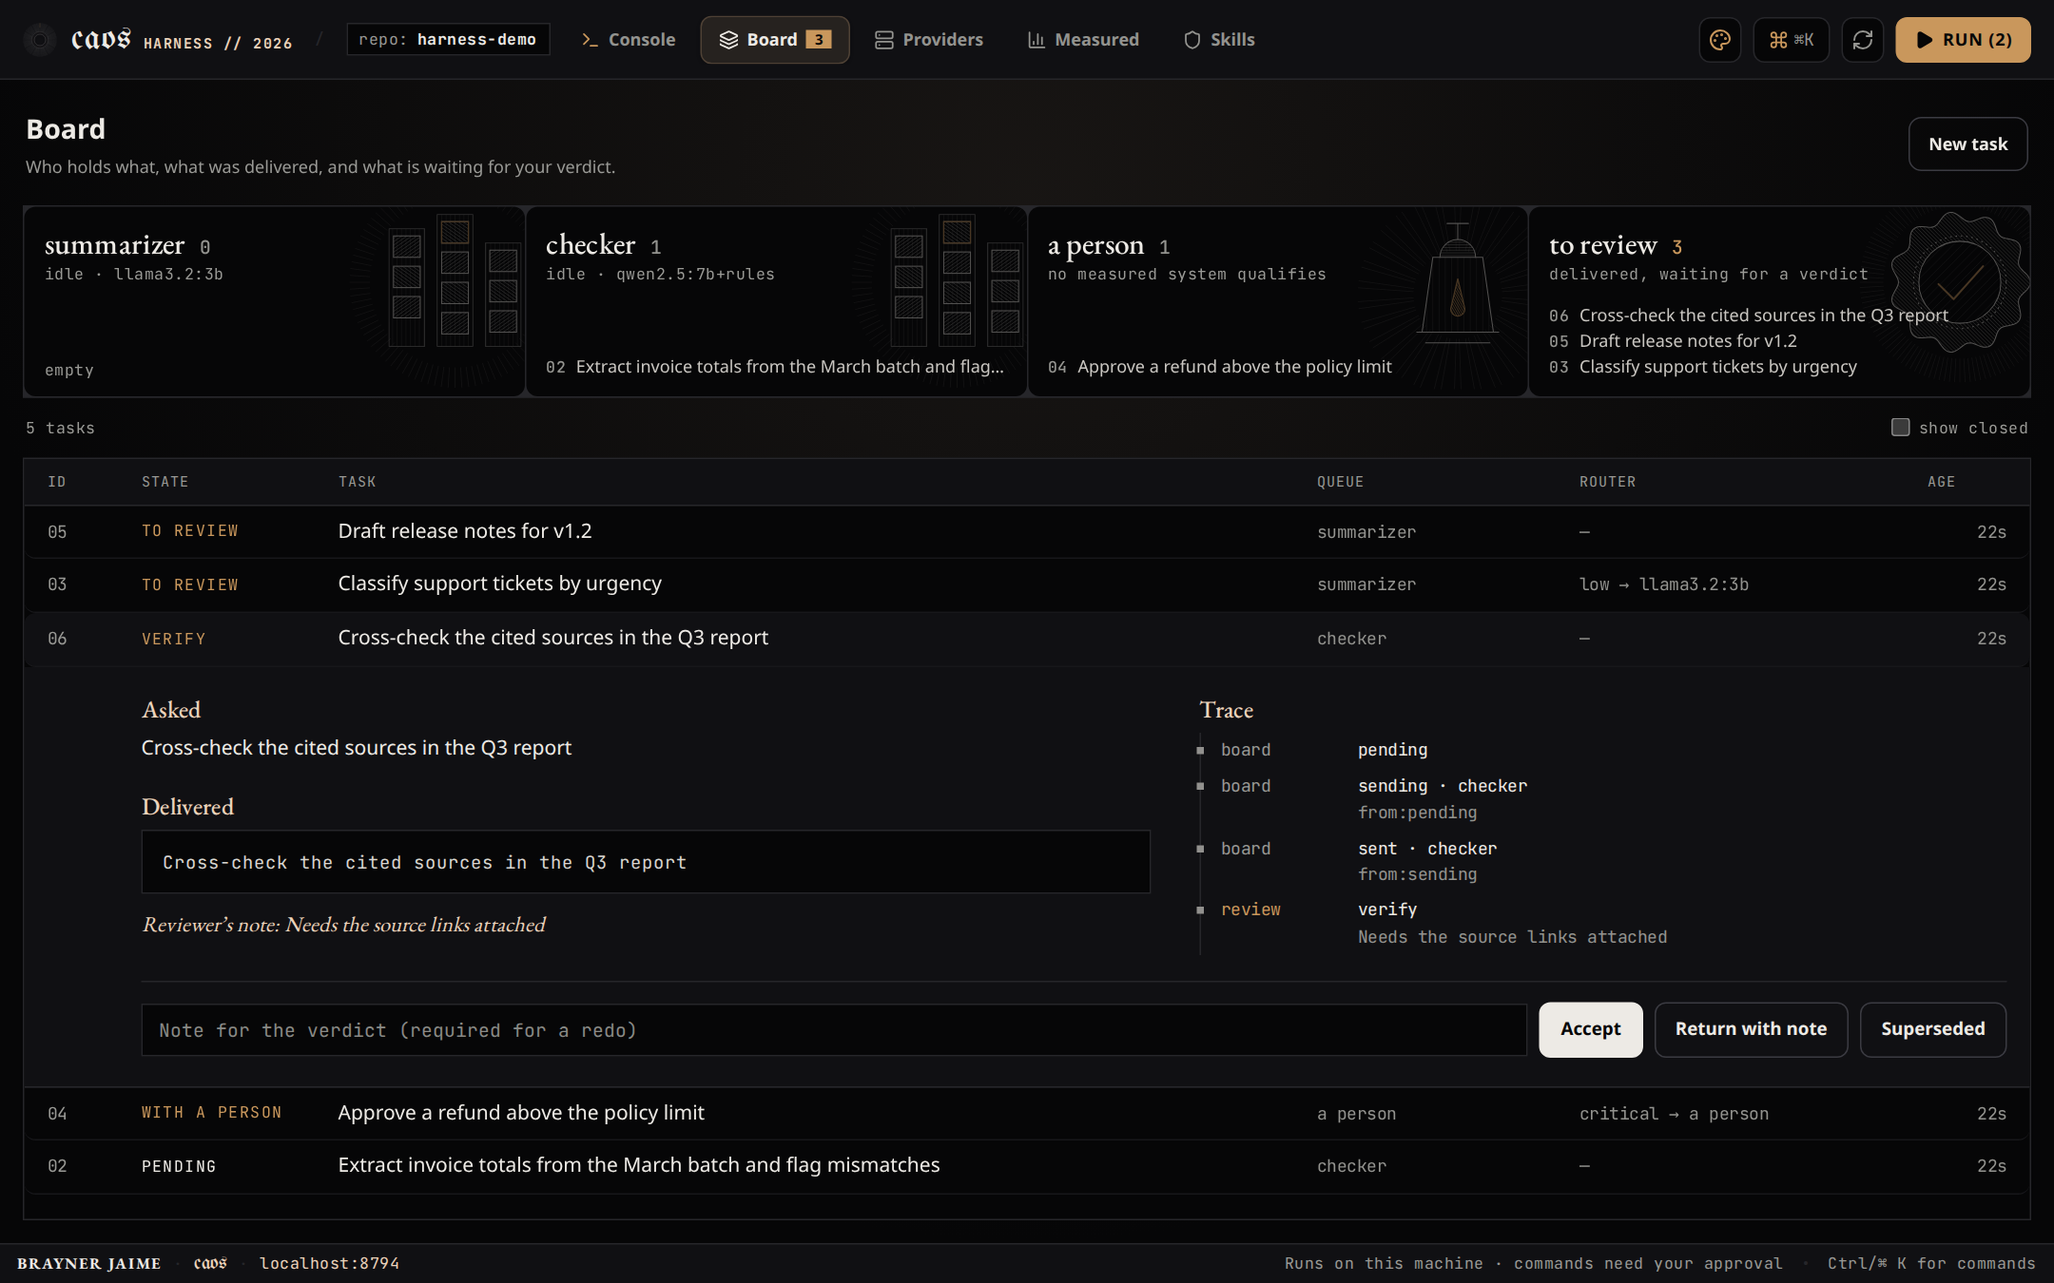
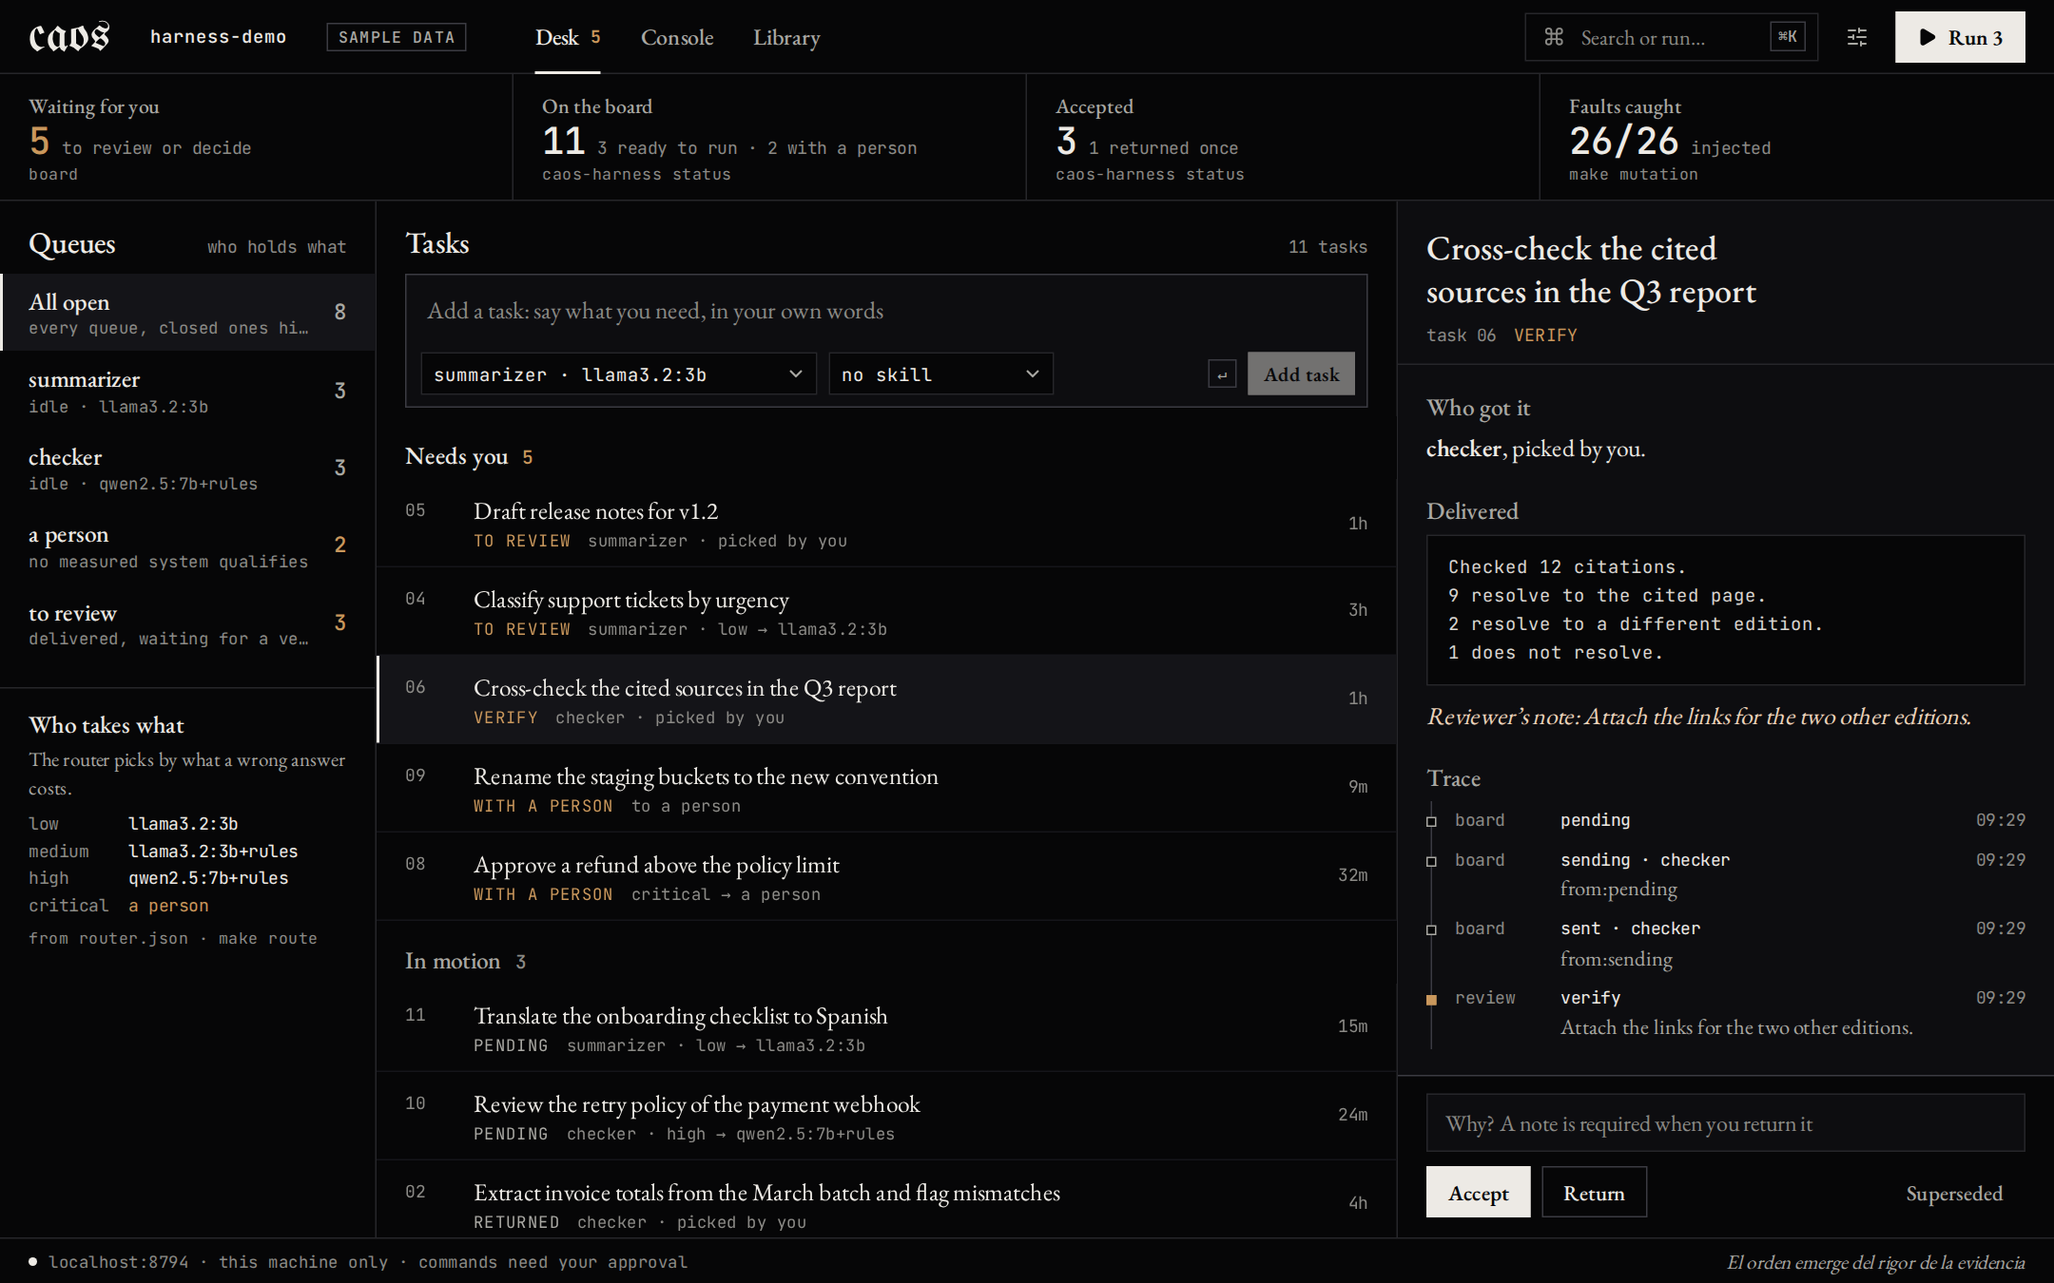
Docs: design review with before and after, new screenshots (desk, compact, first run, console, library, palette, 1024, mobile, CLI), README and quickstart

diff --git a/tools/shot.py b/tools/shot.py
@@ -1,13 +1,46 @@
-"""Regenerate docs/board.png from a running demo server: `python3 tools/shot.py [url] [out]` (needs playwright)."""
+"""Regenerate the dashboard screenshots in docs/ from running servers (needs playwright and chromium).
+
+    python3 tools/seed_demo.py /tmp/harness-demo --force
+    (cd /tmp/harness-demo && python3 -m caos_harness serve --port 8794) &
+    python3 tools/shot.py                          # sample project on :8794  ->  docs/*.png
+
+    python3 tools/shot.py http://localhost:8794 out_dir [http://localhost:8795]
+        the second URL is an empty project (`caos-harness init`), used for the first-run screen
+
+Screenshots are taken with reduced motion on, so nothing is caught mid-animation.
+"""
 import sys
+from pathlib import Path
+
 from playwright.sync_api import sync_playwright
 
-url = sys.argv[1] if len(sys.argv) > 1 else "http://localhost:8794/?tab=board&task=6"
-out = sys.argv[2] if len(sys.argv) > 2 else "docs/board.png"
+demo = (sys.argv[1] if len(sys.argv) > 1 else "http://localhost:8794").rstrip("/")
+out = Path(sys.argv[2] if len(sys.argv) > 2 else Path(__file__).resolve().parent.parent / "docs")
+empty = sys.argv[3].rstrip("/") if len(sys.argv) > 3 else None
+out.mkdir(parents=True, exist_ok=True)
+
+DESKTOP = {"width": 1440, "height": 900}
 with sync_playwright() as p:
     b = p.chromium.launch()
-    pg = b.new_page(viewport={"width": 1440, "height": 900}, device_scale_factor=1.5)
-    pg.goto(url)
-    pg.wait_for_timeout(1500)
-    pg.screenshot(path=out)
+
+    def page(viewport=DESKTOP, scale=1.5):
+        return b.new_context(viewport=viewport, device_scale_factor=scale, reduced_motion="reduce").new_page()
+
+    def shot(pg, name):
+        pg.wait_for_timeout(700)
+        pg.screenshot(path=str(out / name))
+        print("wrote", out / name)
+
+    pg = page(); pg.goto(f"{demo}/?tab=desk&task=6"); shot(pg, "board.png")
+    pg.keyboard.press("Control+k"); pg.keyboard.type("refund"); shot(pg, "palette.png"); pg.close()
+
+    pg = page(); pg.goto(f"{demo}/?tab=desk"); pg.click("button[aria-label=Preferences]"); pg.click("text=Compact"); pg.keyboard.press("Escape")
+    pg.mouse.click(700, 500); shot(pg, "board-compact.png"); pg.close()
+
+    pg = page({"width": 1024, "height": 768}); pg.goto(f"{demo}/?tab=desk&task=6"); shot(pg, "board-1024.png"); pg.close()
+    pg = page(); pg.goto(f"{demo}/?tab=library"); shot(pg, "library.png"); pg.close()
+    pg = page(); pg.goto(f"{demo}/?tab=console"); shot(pg, "console.png"); pg.close()
+    pg = page({"width": 390, "height": 844}, 2); pg.goto(f"{demo}/?tab=desk&task=6"); shot(pg, "board-mobile.png"); pg.close()
+    if empty:
+        pg = page(); pg.goto(f"{empty}/?tab=desk"); shot(pg, "first-run.png"); pg.close()
     b.close()

diff --git a/docs/DESIGN-REVIEW.md b/docs/DESIGN-REVIEW.md
@@ -1,0 +1,63 @@
+# Design review: from five tabs to one desk
+
+A critical review of the dashboard and the CLI as they stood on 2026-11-11, what was changed, and what was deliberately left alone. The "before" images are in [docs/review/before/](review/before/); the "after" images are the ones the README uses.
+
+## What was wrong, in order of impact
+
+1. **It was five tabs of boxes, not a place to work.** Console, Board, Providers, Measured and Skills each opened a full-width panel with a header, an icon and a card grid. The one thing the product is about (a task's whole life: asked, routed, delivered, reviewed) lived inside one of the five. Nothing told you where to look first.
+2. **The first minute was empty and gave no direction.** The console opened on "Your workspace / Start a session to begin" and a button; the board on an empty table. No path from "I just installed this" to "I closed my first task".
+3. **The "Run" button lied.** It counted tasks waiting for a person (`Run (2)` with one runnable task), and the new-task form defaulted to an agent named `qwen` whether or not the project had one.
+4. **The brand rule was broken in four places.** Green on the Measured cards, blue and purple icons in the console, four selectable accent colours (emerald, silver, cyan) and a vignette, all in a brand that has one warm element. Corners were rounded (8 to 14 px) although the brand is square.
+5. **It looked like a template.** Every view repeated box inside box, a lucide icon beside every heading, uppercase tracked labels, the same card. The best thing in the repository, the hairline engravings, was shrunk into 30 px smudges behind queue names, where nobody could read them.
+6. **Strings that were not English or not true.** Spanish leftovers in Providers and the console (`Clave API Pendiente`, `Cuota`, `Operador`, `ahorrado`), a Fallback card marked "not implemented" that had a form, a "+$ saved" label with no data behind it, an "alignment questions" feature the server never sends, and a personal name in every footer.
+7. **Contrast and focus.** The muted text tier was 2.9:1 on black. Focus rings changed style per component. There was no keyboard way to move through tasks, and the palette was the only shortcut.
+8. **Personalisation without function.** Accent colour and background texture changed nothing a person needs; density was the only setting that did.
+
+## What the desk is now
+
+![The desk](board.png)
+
+One working screen. Left, the queues (who holds what) and, under them, the router's table (who takes what, from `router.json`). Middle, a one-line composer and the tasks grouped by what needs you: *Needs you*, *In motion*, *Closed*. Right, the selected task's whole life: who got it and why, what came back, the trace, and the verdict bar. Above, a line of four figures; each names the command that produced it, and none is computed from anything but the board's aggregates, the task list or a report a command wrote.
+
+The page opens on the first thing that needs you, so the trace is never an empty box on a working board; accepting or discarding moves to the next one that needs you.
+
+| | |
+|---|---|
+| ![First run](first-run.png) | ![Console](console.png) |
+| **First run.** A guide that checks itself off by what the board holds (a task exists, something was delivered, something was reviewed), with the terminal equivalent of each step. It hides itself after the first verdict and can be dismissed. | **Console.** The first message starts the session; three real ways in; the limits of Plan mode and shell commands stated before you type. Shell commands are still off per conversation and each one still waits for approval. |
+| ![Library](library.png) | ![Palette](palette.png) |
+| **Library.** Measured systems (with the 95 % interval drawn, because the router decides on its lower bound), the router's tiers, agents, skills and providers in one reference page, one engraving per section. | **⌘K.** Go to a view, run something, or jump to a task by number or words. |
+| ![Compact](board-compact.png) | ![Mobile](board-mobile.png) |
+| **Compact density.** Eleven tasks fit without scrolling on a laptop screen. | **390 px.** Queues become a scrolling strip, the figures a 2×2 grid with their sources, the sample label its own line; the trace opens as a sheet. |
+
+![CLI](cli.png)
+
+The CLI says the same things with the same words. `caos-harness` on its own is now a screen: where you are, what waits for you, the one or two commands worth running next. Colour only on a real terminal; never when piped and never with `NO_COLOR`.
+
+## Decisions
+
+- **Amber means "this needs you", and only that.** The primary button is bone, not amber. This is what makes the single warm element carry information: the count in the nav, the lane heading, the state of a task that waits for a person.
+- **Square corners, hairlines, no cards.** Structure comes from rules and spacing. Nothing sits in a box inside a box.
+- **Type by role.** Garamond for what a person writes and reads (task text, headings, notes); JetBrains Mono for evidence (ids, states, paths, figures, commands); Fraktur for the name only.
+- **Engravings only where they carry meaning, and large.** The empty trace, the first-run guide, "nothing is waiting for you" (the check), an empty queue, each Library section, and the console's policy gate. Removed from queue rows, where they were noise.
+- **Personalisation: two settings, both useful.** *Density* (comfortable or compact) and *Open on* (Desk, Console or Library). Removed: accent colours and the background texture. They live in a small popover from the top bar, stored in the browser only. The old `caos_env_settings` key is ignored.
+- **The Spanish motto stays, once.** "El orden emerge del rigor de la evidencia" is the signature of the brand, and the only Spanish on screen. It is in the footer, never in a control or a sentence the operator has to act on, with its English meaning in the tooltip. It left the console's empty state, where it competed with the instruction.
+- **The personal name left the footer.** The wordmark and the licence carry authorship; a name on every screen of a tool people will evaluate is a signature on the wrong place. It is one line to restore if wanted.
+- **Sample data is labelled.** `tools/seed_demo.py` writes a `.harness/sample` marker; `/api/state` reports `sample: true`; the top bar shows "Sample data" on every screen.
+- **Removed because it did nothing:** the failover form (the server says it is not implemented), "+$ saved" labels, alignment-question chips, the duplicate "add a task" form in the context drawer, the repository selector (the server serves one folder).
+- **Safety is unchanged and visible.** Loopback only, writes need `X-Harness: 1`, no key is ever typed or stored (a provider takes the name of an environment variable), shell commands are off per conversation and each one asks. The footer and the console say so in plain words.
+
+## Accessibility and motion
+
+Text tiers are chosen against `#060607`: bone 16:1, grey 8:1, muted 5.4:1. One focus ring everywhere (`2px` champagne), skip link, `aria-current` on the nav, `aria-pressed` on queues and toggles, `aria-selected` on the selected task, a labelled combobox/listbox for the palette with focus returned on close. Motion is three things: the active nav underline drawing in, rows and trace events rising once, and a hairline that runs under the figures while a run is in progress. `prefers-reduced-motion` removes all of it (the screenshots are taken with it on). The impeccable detector reports nothing on `web/src`.
+
+## What is still open
+
+- Between 981 and 1240 px the desk keeps its three columns with narrower queues; at 980 px and below the trace opens as a sheet over the list (focus moves into it, Esc returns to the row). There is no swipe to dismiss.
+- The Console has no empty-state illustration on narrow screens (the engraving hides below 1180 px).
+- Sessions are listed but cannot be renamed.
+- Nothing here has been used by anyone but the author yet. The first-run guide in particular wants a real first-time reader.
+
+## Independent review
+
+A fresh reviewer (the impeccable finish reviewer, no access to this conversation) read the screenshots and the code. Its material findings, all fixed: the sample label vanished on phones; the figure sources were cut off on phones and the safety line in the footer was clipped mid-word; the trace hid behind a click below 1240 px; a kicker sat above the trace title; the first-run steps dimmed below AA and used a text glyph as an icon; the console engraving touched its headline; and the task list had invalid ARIA (`role="list"` over buttons, `aria-selected` without an option role). Its question about a concept-roll seed key does not apply: the direction was fixed by the project owner, not rolled.

diff --git a/README.md b/README.md
@@ -132,7 +132,7 @@ Raw results: [`reports/`](reports/).
 ```bash
 git clone https://gitlab.com/braynerssj26/caos-agent-harness.git && cd caos-agent-harness
 pip install -e '.[dev]'
-make check        # 133 tests, validation thresholds, regression gate, board demo, router table
+make check        # 137 tests, validation thresholds, regression gate, board demo, router table
 make mutation     # 26/26 injected faults detected
 ```
 
@@ -151,6 +151,21 @@ caos-harness run && caos-harness task list
 caos-harness review 1 redo "no evidence of the run"           # back to its agent, with the note first
 caos-harness serve                                  # the same board in the browser
 ```
+
+### The desk
+
+`caos-harness serve` opens one working screen, not a set of tabs: queues on the left, the tasks in the middle ordered by what needs you first, and the selected task's whole life on the right (what was asked, who got it and why, what came back, the trace) with the verdict controls under it. A line of figures sits above; each one names the command that produced it. **Console** (a local Ollama model) and **Library** (measured systems, the router, agents, skills, providers) are the other two views.
+
+![The desk on a new project: a guide that checks itself off as the board fills](docs/first-run.png)
+
+- **Keys:** `j` / `k` move through tasks, `n` writes a task, `r` runs what is pending, `⌘K` / `Ctrl+K` goes anywhere or finds a task by number or words, `Esc` closes.
+- **Preferences** are two and both are useful: density (comfortable or compact) and the view the page opens on. They are stored in your browser only.
+- **Sample data:** `python3 tools/seed_demo.py /tmp/harness-demo` builds a project of made-up tasks and canned answers; the page labels it "Sample data" so nobody mistakes it for a record.
+- Every figure comes from the board (`Board.stats()`), the task list, or a report a command wrote. There are no estimates.
+
+The CLI speaks in the same words, with colour only on a real terminal (never when piped, and never when `NO_COLOR` is set):
+
+![caos-harness, task list and status in a terminal](docs/cli.png)
 
 Every command is also available as `python -m caos_harness <command>` (`demo`, `route`, `eval`, `regress`, `mutation`, `benchmark`, `agent-eval`, `calibrate`, `skills`, `trace`). Design notes: [docs/ARCHITECTURE.md](docs/ARCHITECTURE.md). Español: [README.es.md](README.es.md).
 

diff --git a/README.es.md b/README.es.md
@@ -56,10 +56,19 @@ El ciclo de vida es el del tablero con el que coordiné mis propios agentes de c
 ## Uso
 ```bash
 pip install -r requirements.txt
-make check        # 133 pruebas, umbrales, compuerta de regresión, demo del tablero y tabla del router
+make check        # 137 pruebas, umbrales, compuerta de regresión, demo del tablero y tabla del router
 make mutation     # 26/26 fallos inyectados detectados
 python -m caos_harness            # todos los comandos
 ```
+### La mesa
+
+`caos-harness serve` abre una sola pantalla de trabajo: las colas a la izquierda, los encargos en el centro (primero lo que te espera) y, a la derecha, la vida completa del encargo elegido: qué se pidió, quién lo recibió y por qué, qué volvió y su traza, con el veredicto debajo. Arriba, una línea de cifras; cada una nombra el comando que la produjo. **Console** (modelo local con Ollama) y **Library** (sistemas medidos, router, agentes, skills, proveedores) son las otras dos vistas. La interfaz está en inglés.
+
+- **Teclas:** `j` / `k` recorren los encargos, `n` escribe uno, `r` ejecuta lo pendiente, `⌘K` / `Ctrl+K` va a cualquier sitio o busca un encargo por número o palabras.
+- **Preferencias:** solo dos, y las dos sirven: densidad (cómoda o compacta) y la vista con la que abre. Se guardan en tu navegador.
+- **Datos de ejemplo:** `python3 tools/seed_demo.py /tmp/harness-demo` crea un proyecto de encargos inventados; la página lo rotula «Sample data».
+- La CLI usa las mismas palabras, con color solo en una terminal real (nunca por tubería ni con `NO_COLOR`).
+
 La evaluación del agente necesita [Ollama](https://ollama.com) y una copia de caos-cerebro: `make agent-eval MODEL=qwen2.5:7b ENGINE=langgraph CEREBRO=/ruta/a/caos-cerebro`.
 
 Alcance: datos sintéticos, modelos locales en CPU, un servidor MCP; intervalos de Wilson al 95 %.

diff --git a/PRODUCT.md b/PRODUCT.md
@@ -31,6 +31,8 @@ A project folder with `harness.toml`; agents are commands. The operator adds tas
 ## Brand Commitments
 CAOS identity as recorded in the brand note of 2026-09-28: "nocturnal, sober". Palette: negro #060607, tinta #101013, borde #26262A, tenue #5C5C5A, gris #93938F, hueso #EDEAE5, champán #EBD3BB, ámbar #C9975C. Three voices: UnifrakturMaguntia for the name only; EB Garamond for the human voice; JetBrains Mono for evidence (figures, commands, paths). One warm element per piece. Square corners. The CLI carries the same identity (user, 2026-11-10).
 
+Interface decisions (2026-11-11, see docs/DESIGN-REVIEW.md): the dashboard is one working screen (the desk: queues, tasks by what needs the operator, the selected task's trace and verdict) plus Console and Library. Amber means "this needs you" and nothing else; the primary button is bone. Personalisation is density and start view only. The Spanish motto appears once, in the footer, as the brand's signature. Sample data is always labelled.
+
 ## Evidence on Hand
 Reports under `reports/` (agent eval, benchmarks, mutation), the deterministic demo (`make demo`), and aggregate use of the original board: 115 tasks between 2026-09-29 and 2026-11-09, 86 reviewed. No customers, testimonials or pricing exist; none may be shown.
 

diff --git a/docs/QUICKSTART.md b/docs/QUICKSTART.md
@@ -53,3 +53,7 @@ make mutation            # injects 26 faults and counts how many the tests catch
 - The dashboard listens on loopback only and refuses writes without its own header.
 - Shell commands in the workstation console are **off** until you switch them on for the session, and they are not sandboxed: they run only after you approve each one.
 - `eval`, `regress`, `mutation`, `benchmark`, `agent-eval` and `calibrate` write reports, so they run from a clone.
+
+## The dashboard in two minutes
+
+`caos-harness serve`, then open http://127.0.0.1:8791. A new project shows a "Start here" guide on the desk: add a task, run it, review what came back. Each step is checked off by what the board holds, not by what you clicked. Press `⌘K` to jump anywhere, `n` to write a task, `j` / `k` to move through them. To look around without any model, build the sample project (`python3 tools/seed_demo.py /tmp/harness-demo`) and serve that folder: the page says "Sample data" on every screen.
